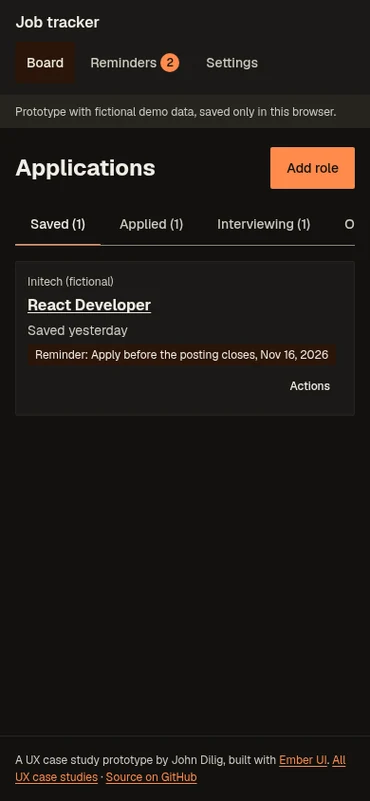
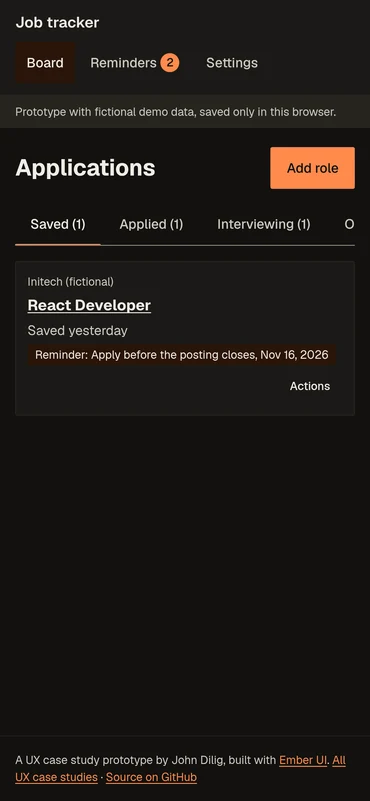
perf(PERF-100): sharp phone copies of the job-tracker mobile shot
Creatives' 3x recapture (scripts/hires/job-tracker-board-mobile-dark@3x.png, same
state as the current PNG) now feeds that image's phone WebP copies at 370/390/740/
780/1170, so dense phone screens get enough pixels (Lighthouse BP image resolution).
The desktop PNG in public/ux is unchanged, so desktop stays pixel-identical.

Author-bot: Front End Developer

diff --git a/src/data/responsive-images.ts b/src/data/responsive-images.ts
@@ -8,5 +8,5 @@ export const RESPONSIVE_IMAGES: Record<string, readonly number[]> = {
   '/ux/ember-ui-modal-dark.png': [370, 740, 1280],
   '/ux/ember-ui-modal-light.png': [370, 740, 1280],
   '/ux/job-tracker-board-desktop.png': [370, 740, 1280],
-  '/ux/job-tracker-board-mobile-dark.png': [370, 390],
+  '/ux/job-tracker-board-mobile-dark.png': [370, 390, 740, 780, 1170],
 };

diff --git a/scripts/responsive-images.py b/scripts/responsive-images.py
@@ -8,6 +8,11 @@ lists the widths made for each image. UxCaseStudy offers them to phones only
 (below the sm breakpoint) through <picture>, so desktop keeps the original
 PNG pixel for pixel.
 
+A screenshot can also have a sharper source, scripts/hires/<name>@3x.png (3x the
+PNG's size). Its phone copies are then made from that file at 1x, 2x and 3x
+the PNG's width as well, so phones with dense screens get a sharp image.
+public/ux/<name>.png stays the desktop image, unchanged.
+
 Rerun after adding or replacing a screenshot:  python3 scripts/responsive-images.py
 Needs Pillow with WebP support (already on the box; no npm packages).
 """
@@ -16,16 +21,21 @@ from PIL import Image
 
 ROOT = Path(__file__).resolve().parent.parent
 SRC = ROOT / 'public' / 'ux'
+HIRES = ROOT / 'scripts' / 'hires'
 OUT_TS = ROOT / 'src' / 'data' / 'responsive-images.ts'
 WIDTHS = (370, 740, 1280)
 QUALITY = 88
 
 made = {}
 for png in sorted(SRC.glob('*.png')):
-    with Image.open(png) as im:
+    with Image.open(png) as base:
+        bw = base.size[0]
+    hires = HIRES / f'{png.stem}@3x.png'
+    with Image.open(hires if hires.exists() else png) as im:
         im = im.convert('RGB')
         w, h = im.size
-        widths = sorted({x for x in WIDTHS if x <= w} | ({w} if w < max(WIDTHS) else set()))
+        dense = {bw * k for k in (1, 2, 3) if bw * k <= w} if hires.exists() else set()
+        widths = sorted({x for x in WIDTHS if x <= w} | ({w} if w < max(WIDTHS) else set()) | dense)
         for x in widths:
             out = png.with_name(f'{png.stem}-{x}.webp')
             img = im if x == w else im.resize((x, round(h * x / w)), Image.LANCZOS)
